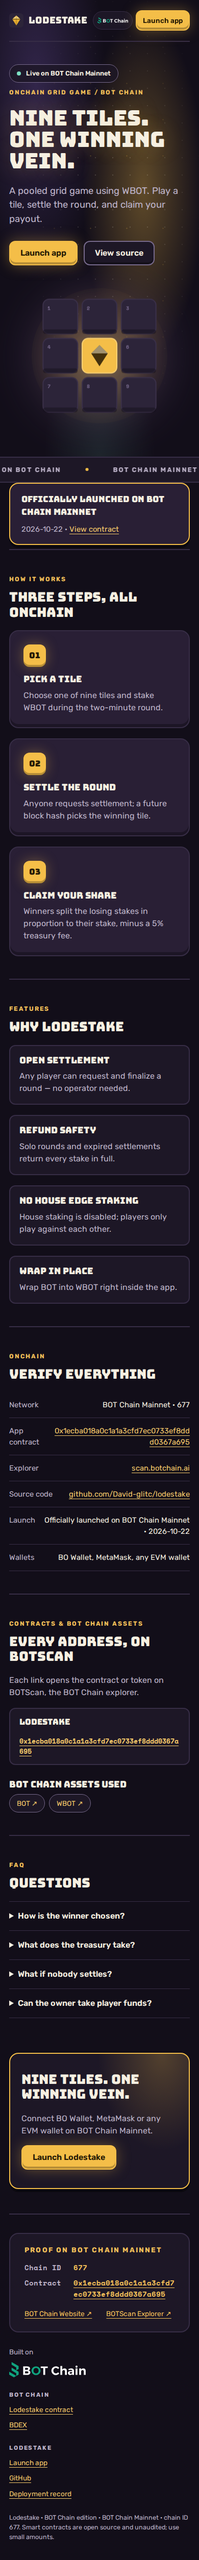
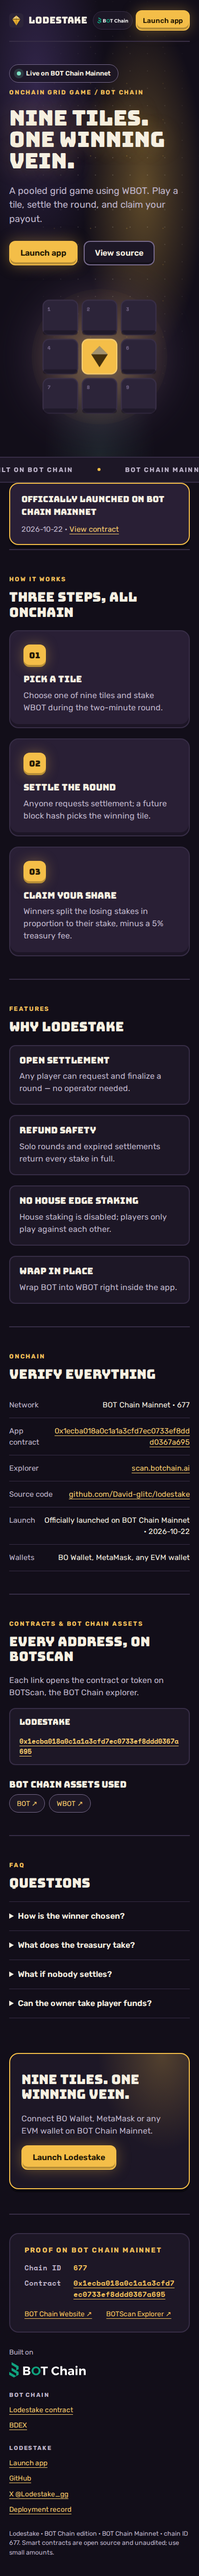
Add X handle to footer and docs

diff --git a/README.md b/README.md
@@ -6,6 +6,7 @@
 
 - Website and app: https://lodestake.vercel.app (app at [`/app/`](https://lodestake.vercel.app/app/))
 - Network: BOT Chain mainnet, chain ID 677 · [BOT Chain](https://www.botchain.ai/) · [BOTScan](https://scan.botchain.ai/)
+- X: [@Lodestake_gg](https://x.com/Lodestake_gg)
 
 ![Lodestake landing page](docs/lodestake-landing-1280.png)
 
